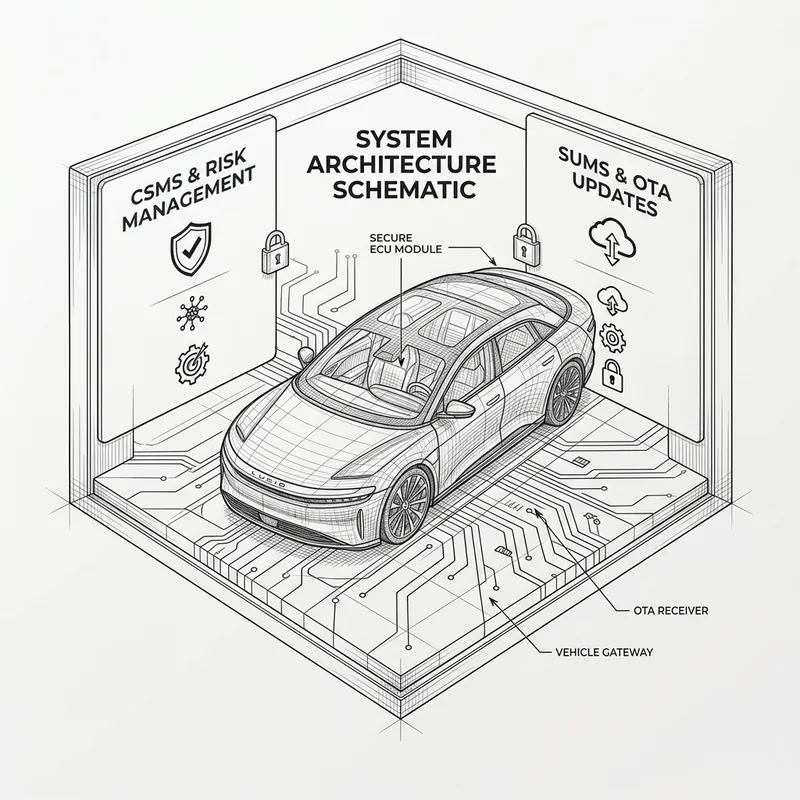
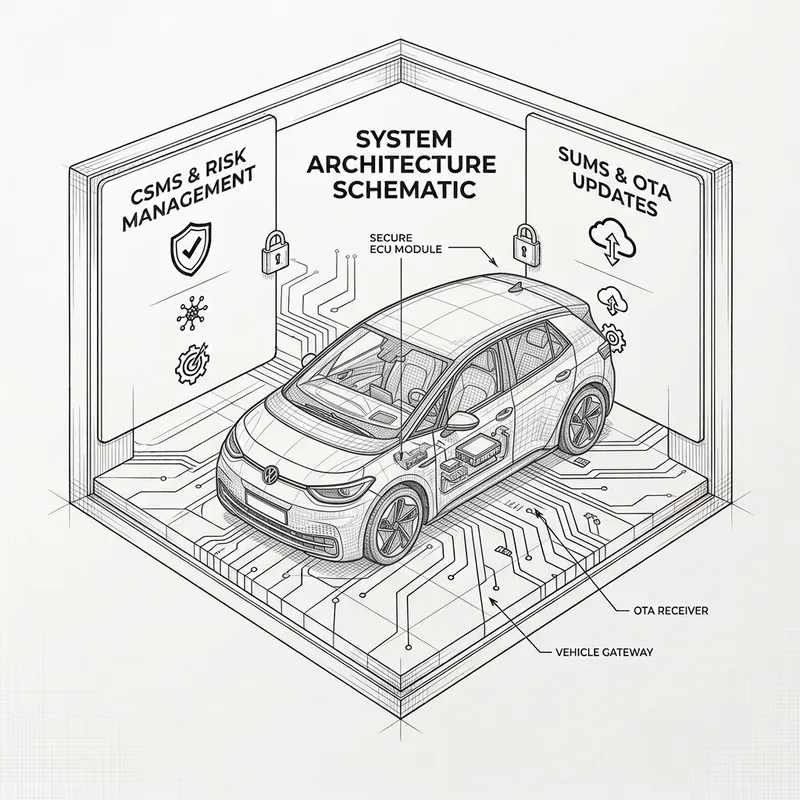
Replace UNECE image with VW vehicle version

diff --git a/kompetenzen.html b/kompetenzen.html
@@ -127,7 +127,7 @@
         </article>
 
         <article class="card">
-          <div class="card-image-wrap"><img class="card-image" src="img/UNECE.webp" alt="Schemazeichnung: Fahrzeug-Architektur mit CSMS, SUMS und OTA-Updates" width="400" height="220" loading="lazy"></div>
+          <div class="card-image-wrap"><img class="card-image" src="img/UNECE.webp" alt="Schemazeichnung: VW-Fahrzeug-Architektur mit CSMS, SUMS und OTA-Updates" width="400" height="220" loading="lazy"></div>
           <div class="card-icon">UN</div>
           <h3>UNECE R155 / R156</h3>
           <p>Beratung und Einordnung zu den UNECE-Regularien für Cybersecurity-Management (CSMS) und Software-Update-Management (SUMS) — relevant für Typgenehmigung, Nachrüstung und Diagnosefähigkeit moderner Fahrzeuge.</p>

diff --git a/ROADMAP.md b/ROADMAP.md
@@ -74,7 +74,7 @@ Ziel: Jeder Menüpunkt in der Kopfzeile führt auf eine eigene Unterseite statt 
 Stand 2026-09-27. Echte Platzhalter (`img/placeholder.svg`) gibt es keine mehr. Die folgenden Stellen zeigen aber nur abstrakte SVG-Illustrationen oder gar kein eigenes Bild.
 
 - [x] Kompetenz-Karten „VCP" und „UNECE R155 / R156" (`kompetenzen.html`): `img/VCP.webp` und `img/UNECE.webp` eingebaut
-- [ ] UNECE-Bild prüfen: Auf dem Fahrzeug steht „LUCID" (Fremdmarke); ggf. durch ein Bild ohne Markenschriftzug ersetzen
+- [x] UNECE-Bild ersetzt: VW-Fahrzeug statt Fremdmarke („LUCID")
 - [ ] Blog: Eigenes Beitragsbild je Artikel (auf `blog.html` und im Artikel selbst gibt es aktuell keine Bilder)
   - [ ] `blog/sfd-in-vcds-verfuegbar.html`
   - [ ] `blog/sfd-und-sfd2-erklaert.html`
